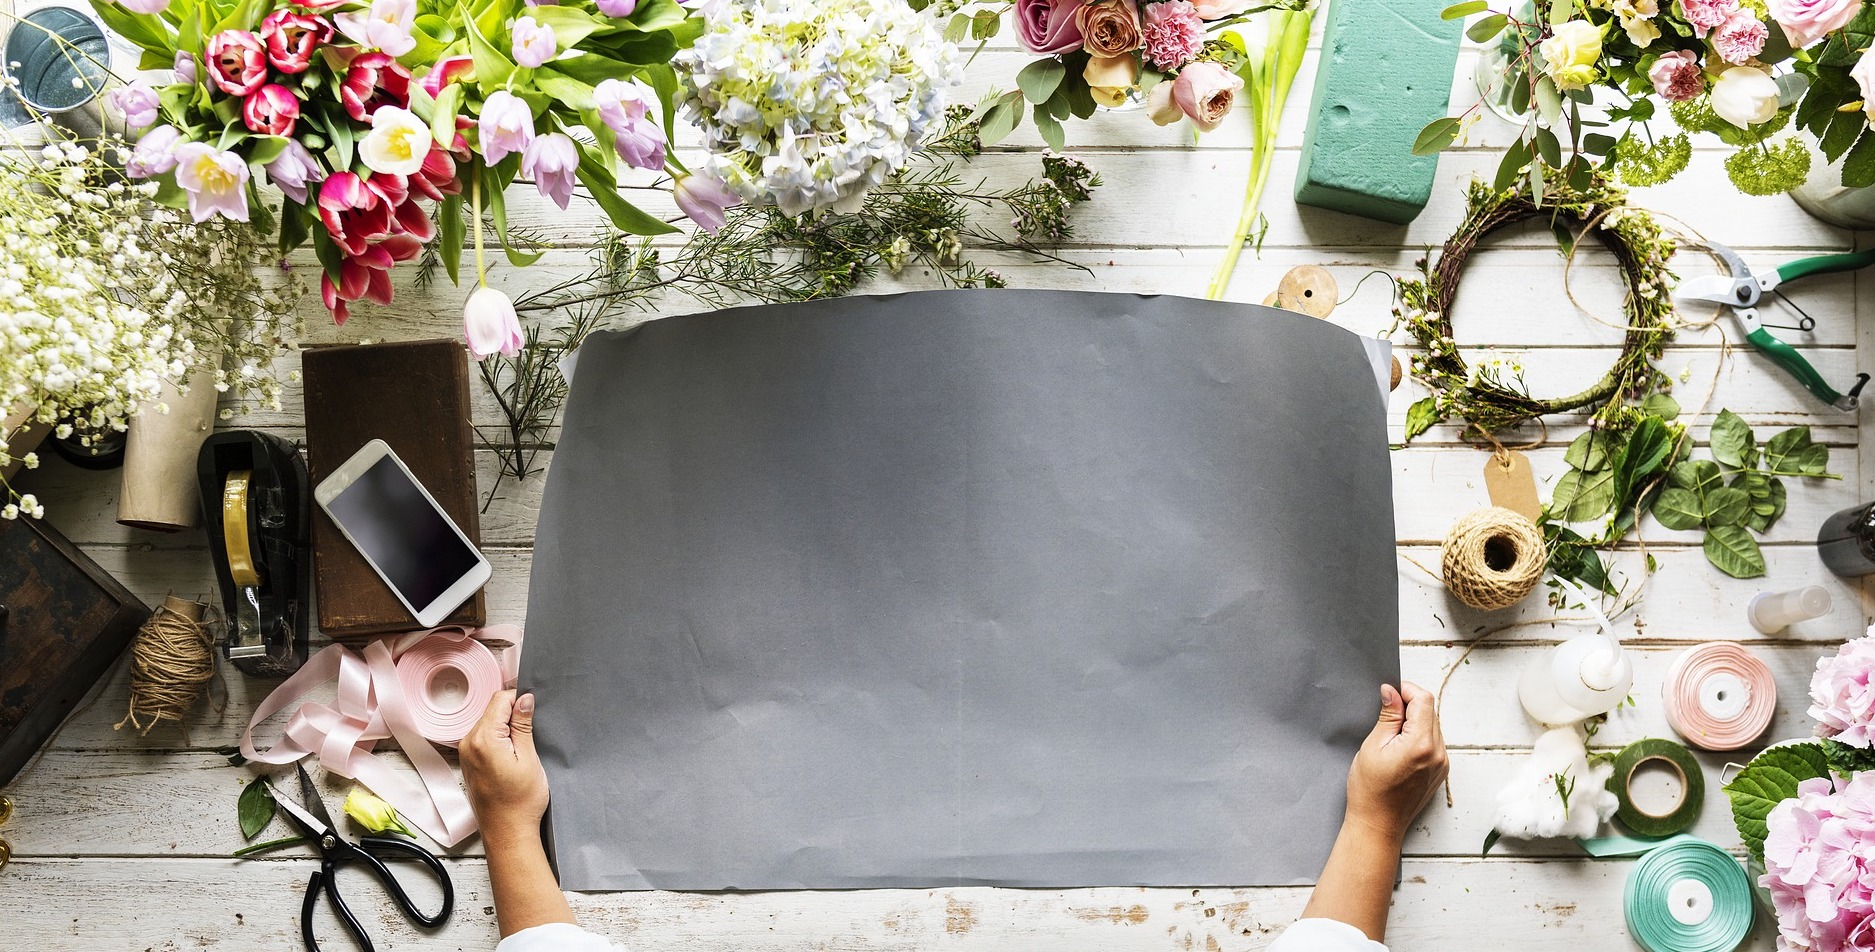
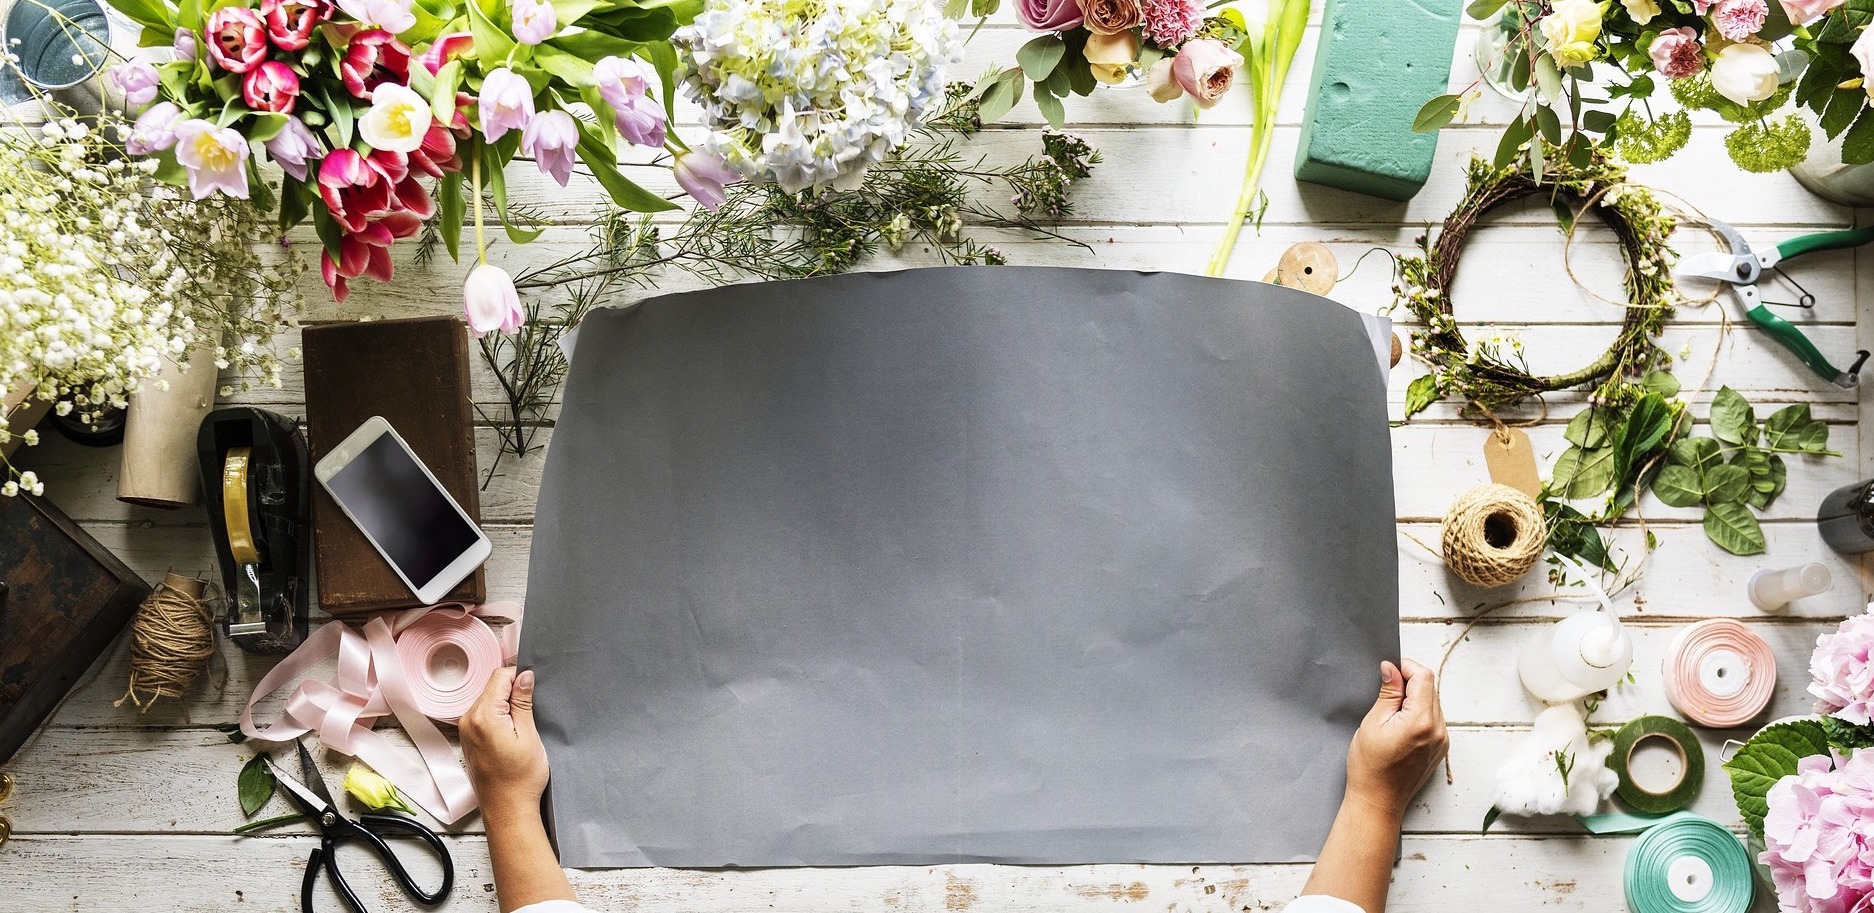
updated background images

diff --git a/home.html b/home.html
@@ -32,7 +32,7 @@
             </div>
             <!-- <h2 class="bannerTitle">Spring Is Here!</h2>
             <h4 >Shop Our Collection</h4> -->
-            <img id="goatCover" src="images/crafting2.jpg" alt="Goats">
+            <img id="goatCover" src="images/banner.png" alt="Goats">
             <h2 class="bannerTitle">Spring Is Here!</h2>
             <h4 >Shop Our Collection ></h4>
             <div id="landingContainerTop">

diff --git a/portal.css b/portal.css
@@ -2,7 +2,7 @@ html, body{
     min-height:100%;
 }
 body{
-    background-image: url('livingRoom.jpg');
+    background-image: url('cover.png');
     background-repeat: repeat;
     background-size:cover;
     background-position: center top;

diff --git a/style.css b/style.css
@@ -10,7 +10,7 @@ body{
     display:flex;
     flex-direction: column;
     align-items: center;
-    margin:5%;
+    margin:0% 5% 5% 5%;
 } 
 #navAndLogoContainer{
     display:flex;
